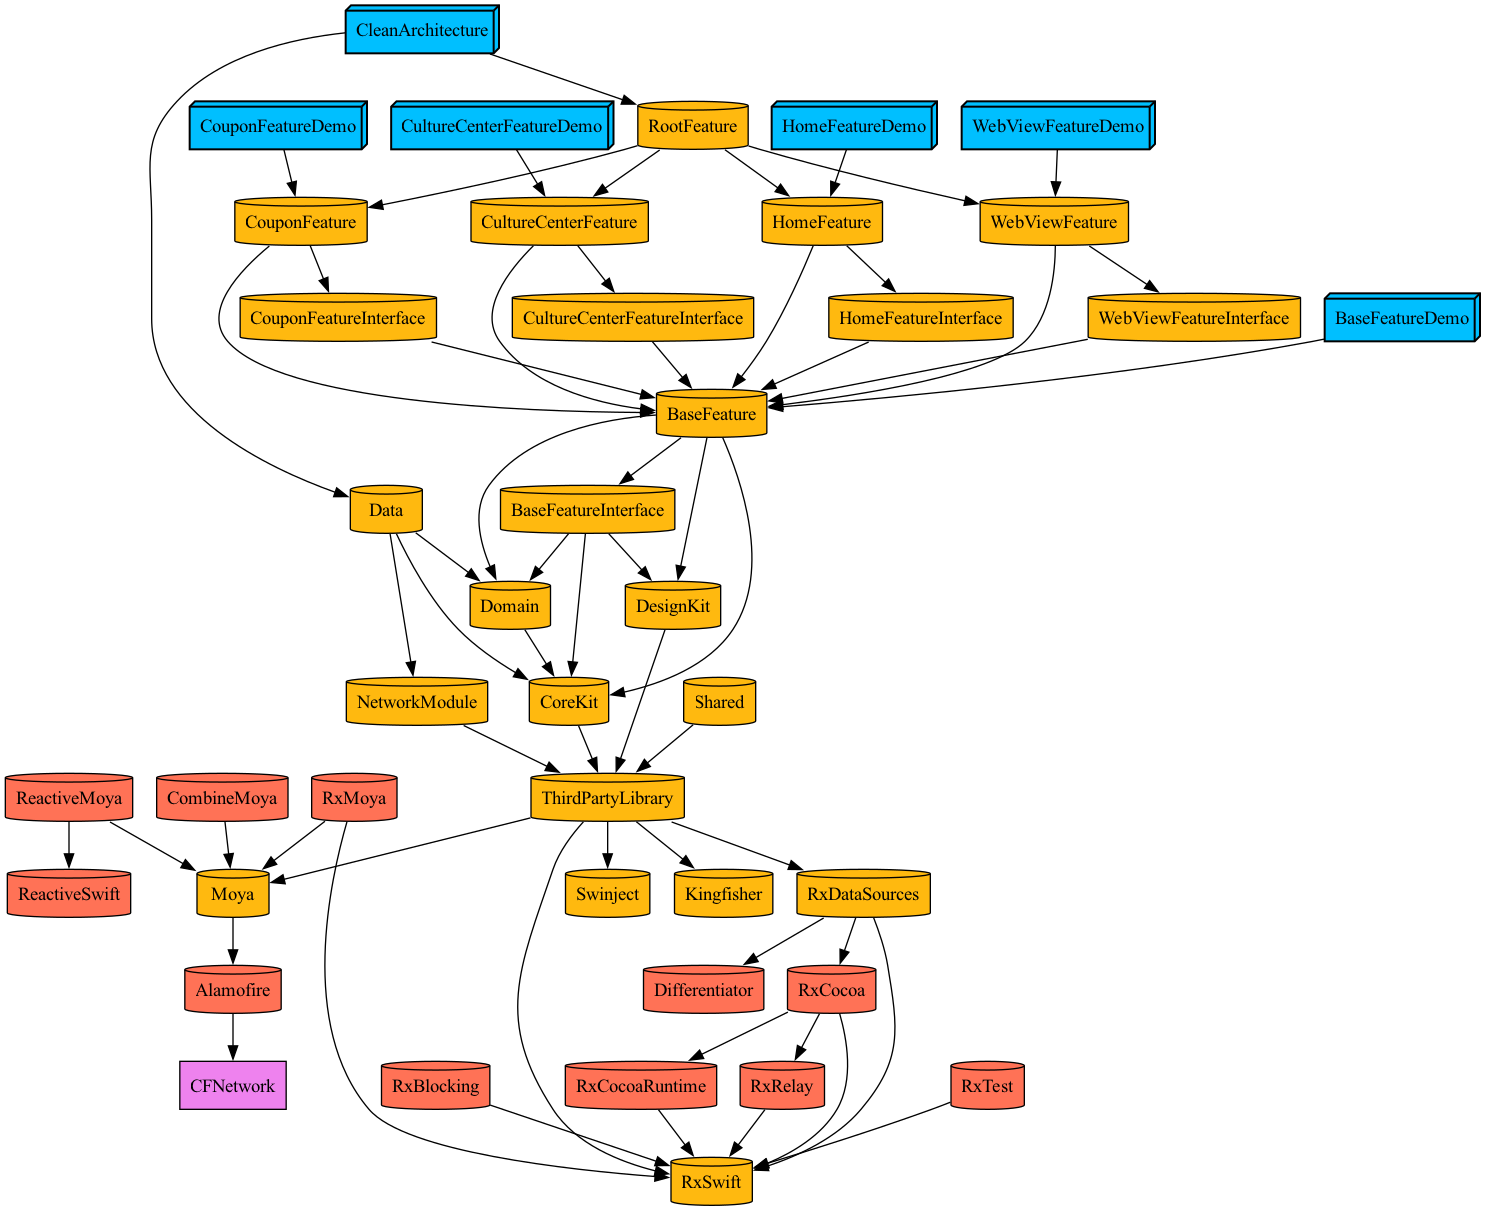
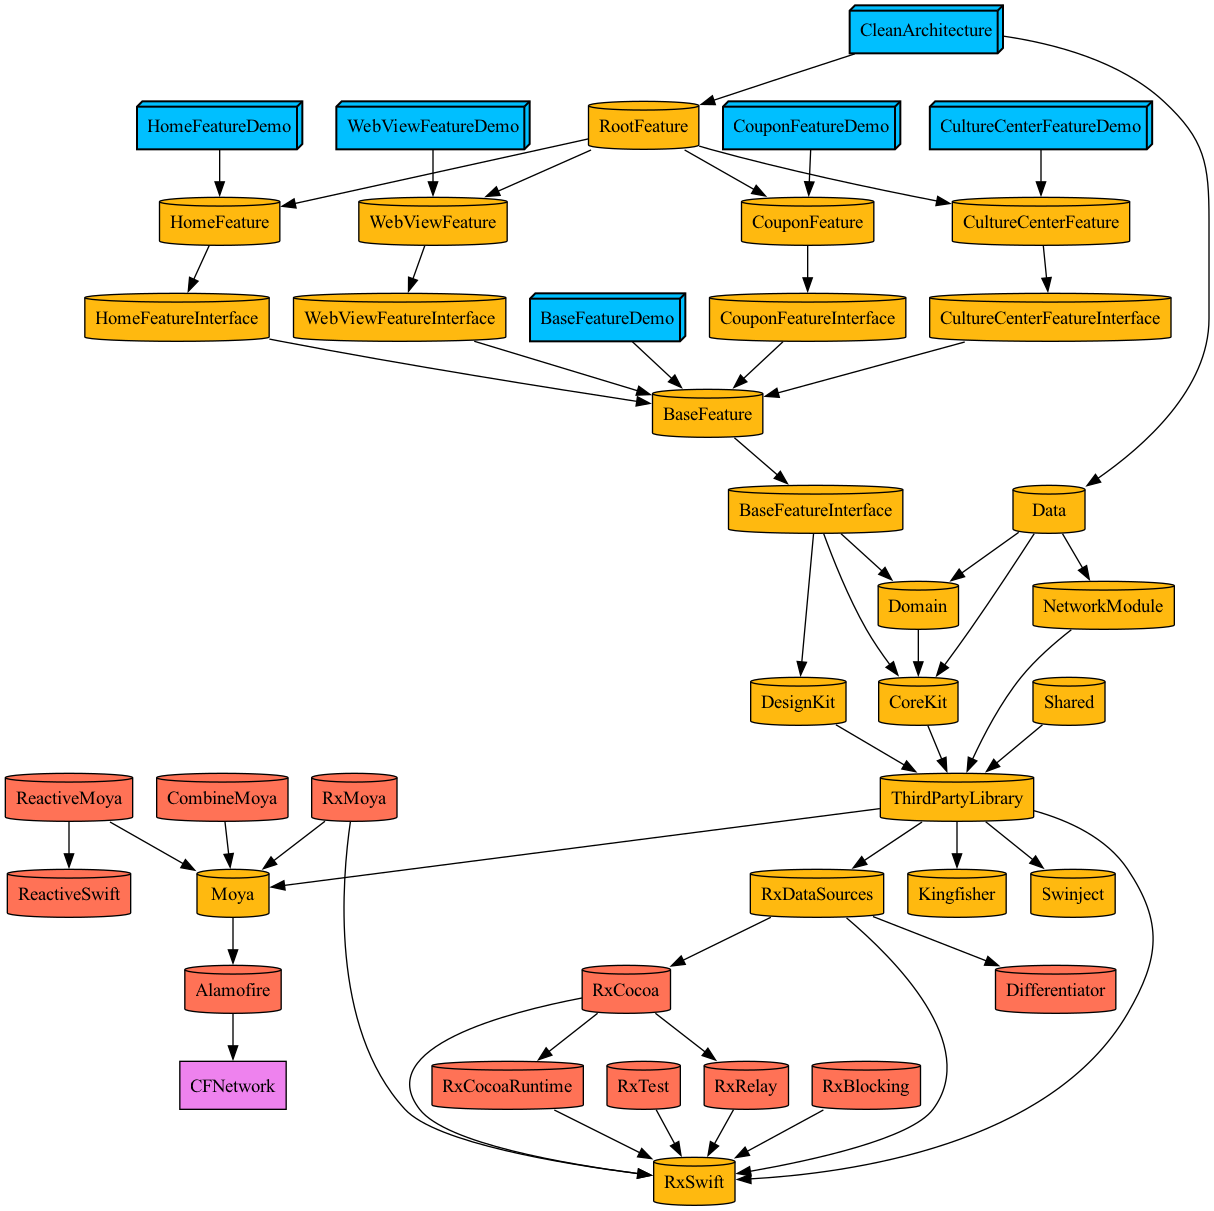
create demo app

diff --git a/Tuist/ProjectDescriptionHelpers/Template/Project+Templates.swift b/Tuist/ProjectDescriptionHelpers/Template/Project+Templates.swift
@@ -206,7 +206,7 @@ extension Project {
         let interfaceTarget = Target.target(
             name: interfaceTargetName,
             destinations: configuration.destination,
-            product: product,
+            product: .framework,
             bundleId: "\(configuration.bundleIdentifier).\(name.lowercased())Interface",
             deploymentTargets: configuration.deploymentTarget,
             infoPlist: .default,
@@ -217,24 +217,17 @@ extension Project {
         // Framework 타겟
         let frameworkTargetName = name
         
-        /**
-         * UIkit 만 있는 target을 위한 설정
-         */
-        //let featureTargetName = "\(name)Feature"
-        let frameworkResources: ResourceFileElements?
-
-        if name == "CultureCenterFeature" {
-            frameworkResources = [
-                .glob(pattern: "Sources/**/*.xib"),
-            ]
-        } else {
-            frameworkResources = nil
-        }
+        // UIkit 만 있는 target을 위한 설정
+        let frameworkResources: ResourceFileElements? = (
+            name == "CultureCenterFeature"
+                ? [.glob(pattern: "Sources/**/*.xib")]
+                : nil
+        )
         
         let frameworkTarget = Target.target(
             name: frameworkTargetName,
             destinations: configuration.destination,
-            product: product,
+            product: .framework,
             bundleId: "\(configuration.bundleIdentifier).\(name.lowercased())",
             deploymentTargets: configuration.deploymentTarget,
             infoPlist: .default,
@@ -247,6 +240,7 @@ extension Project {
         
         // Demo 타겟
         let demoTargetName = "\(name)Demo"
+        
         let demoTarget = Target.target(
             name: demoTargetName,
             destinations: configuration.destination,
@@ -293,14 +287,17 @@ extension Project {
 //        )
         
         let targets = [interfaceTarget, frameworkTarget, demoTarget]
-        //let targets = [interfaceTarget, frameworkTarget, demoTarget, testsTarget, testTarget]
-        
-        let scheme = Scheme.configureDemoAppScheme(schemeName: name)
-        
-        // 프로젝트 생성
+
+        let scheme = Scheme.configureDemoAppScheme(
+            schemeName: demoTargetName
+        )
+
         return Project(
-            name: name,
+            name: demoTargetName,
             organizationName: organizationName,
+            options: .options(
+                automaticSchemesOptions: .disabled
+            ),
             settings: settings,
             targets: targets,
             schemes: [scheme]

diff --git a/Projects/Feature/HomeFeature/Demo/Sources/Application/SceneDelegate.swift b/Projects/Feature/HomeFeature/Demo/Sources/Application/SceneDelegate.swift
@@ -1,0 +1,62 @@
+//
+//  SceneDelegate.swift
+//  CleanArchitecture
+//
+//  Created by Chaekyeong Lee on 1/5/25.
+//
+
+import UIKit
+import SwiftUI
+import Data
+import Domain
+import NetworkModule
+
+class SceneDelegate: UIResponder, UIWindowSceneDelegate {
+
+    var window: UIWindow?
+
+    func scene(_ scene: UIScene, willConnectTo session: UISceneSession, options connectionOptions: UIScene.ConnectionOptions) {
+
+        guard let _ = (scene as? UIWindowScene) else { return }
+        
+        if let windowScene = scene as? UIWindowScene {
+            let repository = HomeRepository(homeService: HomeService())
+            let usecase = HomeUseCase(homeRepository: repository)
+            let viewModel = HomeViewModel(homeUseCase: usecase)
+
+            self.window = UIWindow(windowScene: windowScene)
+
+//            let router = AppRouter()
+//            
+//            let homeScreen = HomeScreen(router: router, homeViewModel: viewModel)
+//
+//            let hostingController = UIHostingController(rootView: NavigationView { homeScreen })
+//
+//            self.window?.rootViewController = hostingController
+//            self.window?.makeKeyAndVisible()
+        }
+    }
+
+    func sceneDidDisconnect(_ scene: UIScene) {
+
+    }
+
+    func sceneDidBecomeActive(_ scene: UIScene) {
+
+    }
+
+    func sceneWillResignActive(_ scene: UIScene) {
+
+    }
+
+    func sceneWillEnterForeground(_ scene: UIScene) {
+
+    }
+
+    func sceneDidEnterBackground(_ scene: UIScene) {
+
+    }
+
+
+}
+

diff --git a/Tuist/ProjectDescriptionHelpers/Extension/Scheme+.swift b/Tuist/ProjectDescriptionHelpers/Extension/Scheme+.swift
@@ -61,14 +61,19 @@ extension Scheme {
         schemeName: String
     ) -> Scheme {
         let developmentConfiguration: ConfigurationName = .configuration("Development")
-        
-        let buildAction = BuildAction.buildAction(targets: [TargetReference(stringLiteral: schemeName)])
-        
+
+        let buildAction = BuildAction.buildAction(
+            targets: [TargetReference(stringLiteral: schemeName)]
+        )
+
         return Scheme.scheme(
             name: schemeName,
             shared: true,
             buildAction: buildAction,
-            runAction: .runAction(configuration: developmentConfiguration),
+            runAction: .runAction(
+                configuration: developmentConfiguration,
+                executable: TargetReference(stringLiteral: schemeName)
+            ),
             archiveAction: .archiveAction(configuration: developmentConfiguration),
             profileAction: .profileAction(configuration: developmentConfiguration),
             analyzeAction: .analyzeAction(configuration: developmentConfiguration)

diff --git a/Projects/Feature/HomeFeature/Demo/Sources/Application/AppDelegate.swift b/Projects/Feature/HomeFeature/Demo/Sources/Application/AppDelegate.swift
@@ -1,0 +1,29 @@
+//
+//  AppDelegate.swift
+//  CleanArchitecture
+//
+//  Created by Chaekyeong Lee on 1/5/25.
+//
+
+import UIKit
+
+@main
+class AppDelegate: UIResponder, UIApplicationDelegate {
+    func application(_ application: UIApplication, didFinishLaunchingWithOptions launchOptions: [UIApplication.LaunchOptionsKey: Any]?) -> Bool {
+        
+        return true
+    }
+
+    // MARK: UISceneSession Lifecycle
+    func application(_ application: UIApplication, configurationForConnecting connectingSceneSession: UISceneSession, options: UIScene.ConnectionOptions) -> UISceneConfiguration {
+
+        return UISceneConfiguration(name: "Default Configuration", sessionRole: connectingSceneSession.role)
+    }
+
+    func application(_ application: UIApplication, didDiscardSceneSessions sceneSessions: Set<UISceneSession>) {
+        
+    }
+
+
+}
+
